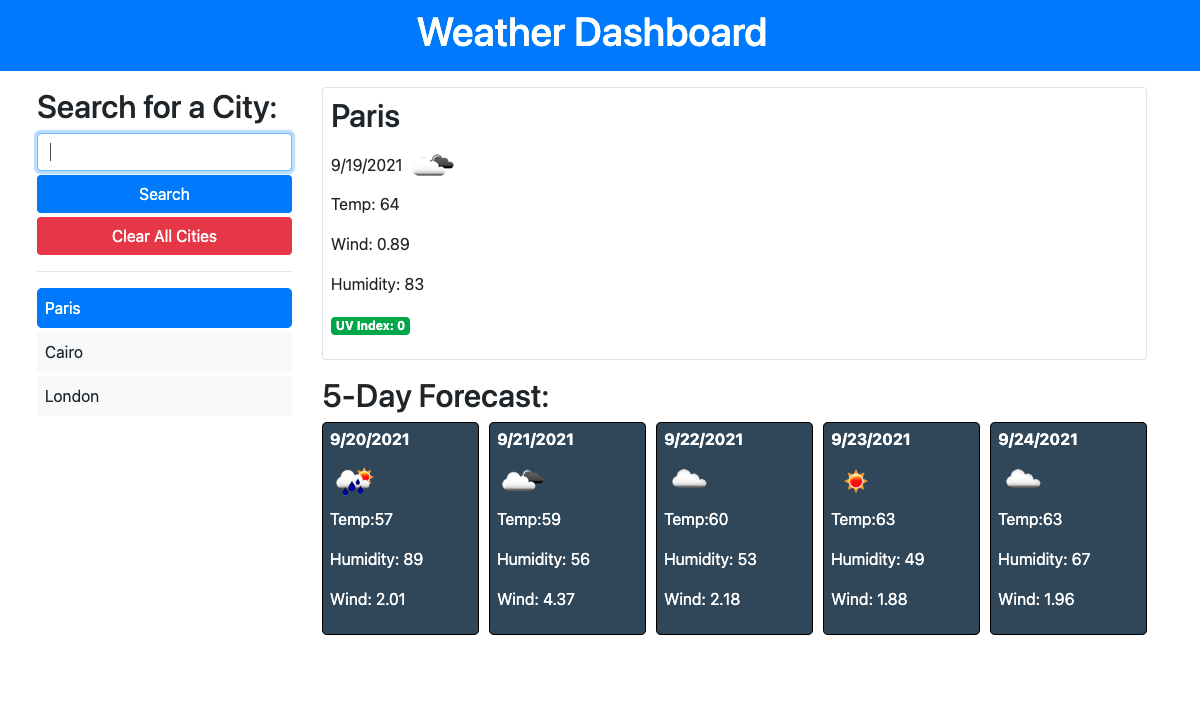
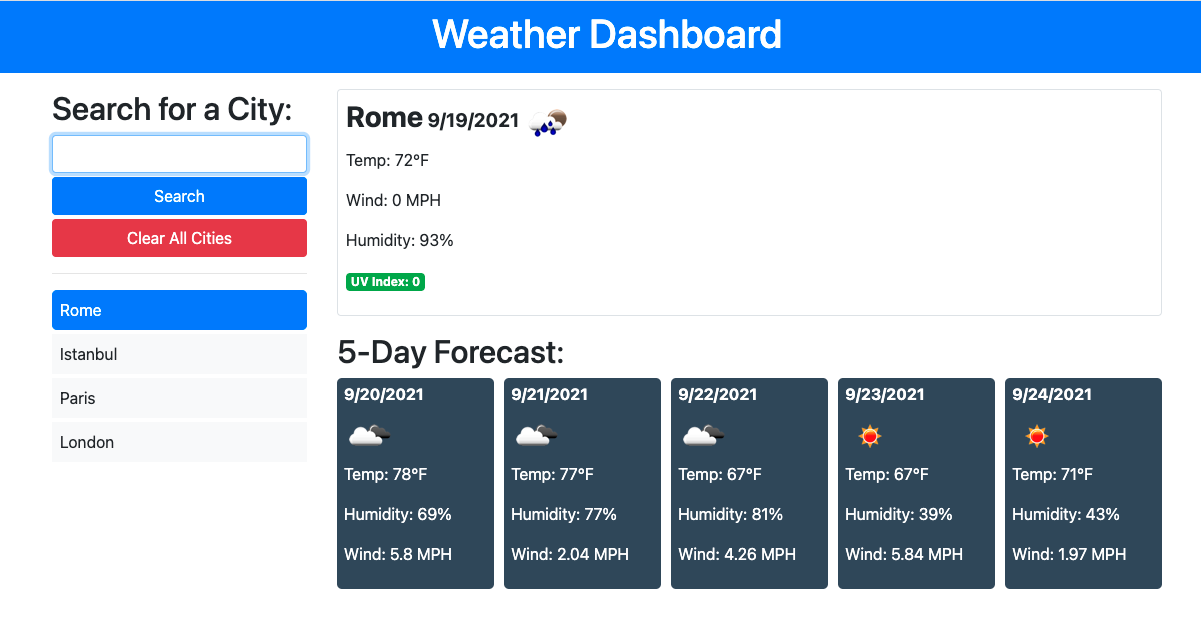
improving CSS

Changed region(s): [[0.0, 0.0, 1.0, 0.9305], [0.0617, 0.6904, 0.0925, 0.7204], [0.0617, 0.6303, 0.0925, 0.6603]]

diff --git a/assets/js/script.js b/assets/js/script.js
@@ -94,9 +94,9 @@ function getWeather(cityName){
 }
 
 function viewData(weather){
-  tempEl.innerHTML = "Temp: " + Math.floor(kvToFa (weather.main.temp));
-  windEl.innerHTML = "Wind: " + weather.wind.speed
-  humidityEl.innerHTML = "Humidity: " + weather.main.humidity
+  tempEl.innerHTML = "Temp: " + Math.floor(kvToFa (weather.main.temp)) + "°F";
+  windEl.innerHTML = "Wind: " + weather.wind.speed + " MPH"
+  humidityEl.innerHTML = "Humidity: " + weather.main.humidity + "%"
   cityEl.innerHTML = weather.name
   var lat = weather.coord.lat
   var lon = weather.coord.lon;
@@ -154,13 +154,13 @@ function forecastData(fiveDays){
     img.setAttribute("src", "http://openweathermap.org/img/w/" + fiveDays.list[indexDay].weather[0].icon +".png")
     boxes[i].append(img);
     var temp = document.createElement("p")
-    temp.innerHTML = "Temp:"  + Math.floor(kvToFa(fiveDays.list[indexDay].main.temp));
+    temp.innerHTML = "Temp: " + Math.floor(kvToFa(fiveDays.list[indexDay].main.temp)) + "°F";
     boxes[i].append(temp);
     var humidity = document.createElement("p")
-    humidity.innerHTML = "Humidity: " + fiveDays.list[indexDay].main.humidity
+    humidity.innerHTML = "Humidity: " + fiveDays.list[indexDay].main.humidity + "%"
     boxes[i].append(humidity);
     var wind = document.createElement("p")
-    wind.innerHTML = "Wind: " + fiveDays.list[indexDay].wind.speed
+    wind.innerHTML = "Wind: " + fiveDays.list[indexDay].wind.speed + " MPH"
     boxes[i].append(wind);
   }
 }

diff --git a/index.html b/index.html
@@ -26,13 +26,13 @@
       </div>
       <div class="col-9 wrapper">
         <div class="info border p-2 rounded mb-3">
-          <h2 class="cityTitle">City</h2>
+          <h2 class="cityTitle"></h2>
           <span class="date"></span>
           <img class="image" />
           <p class="temp"> </p>
           <p class="wind"></p>
           <p class="humidity"> </p>
-          <p class="uvIndex">UV Index: </p>
+          <p class="uvIndex"></p>
         </div>
         
         <div class="forcast">

diff --git a/assets/css/style.css b/assets/css/style.css
@@ -33,3 +33,18 @@
   background-color: black!important;
 }
 
+.cityTitle{
+  display: inline;
+  font-size: 1.8rem;
+  font-weight: bold;
+}
+
+.info span{
+  font-size: 1.2rem;
+  font-weight: bold;
+  display: inline;
+}
+
+.info img{
+  display: inline;
+}
